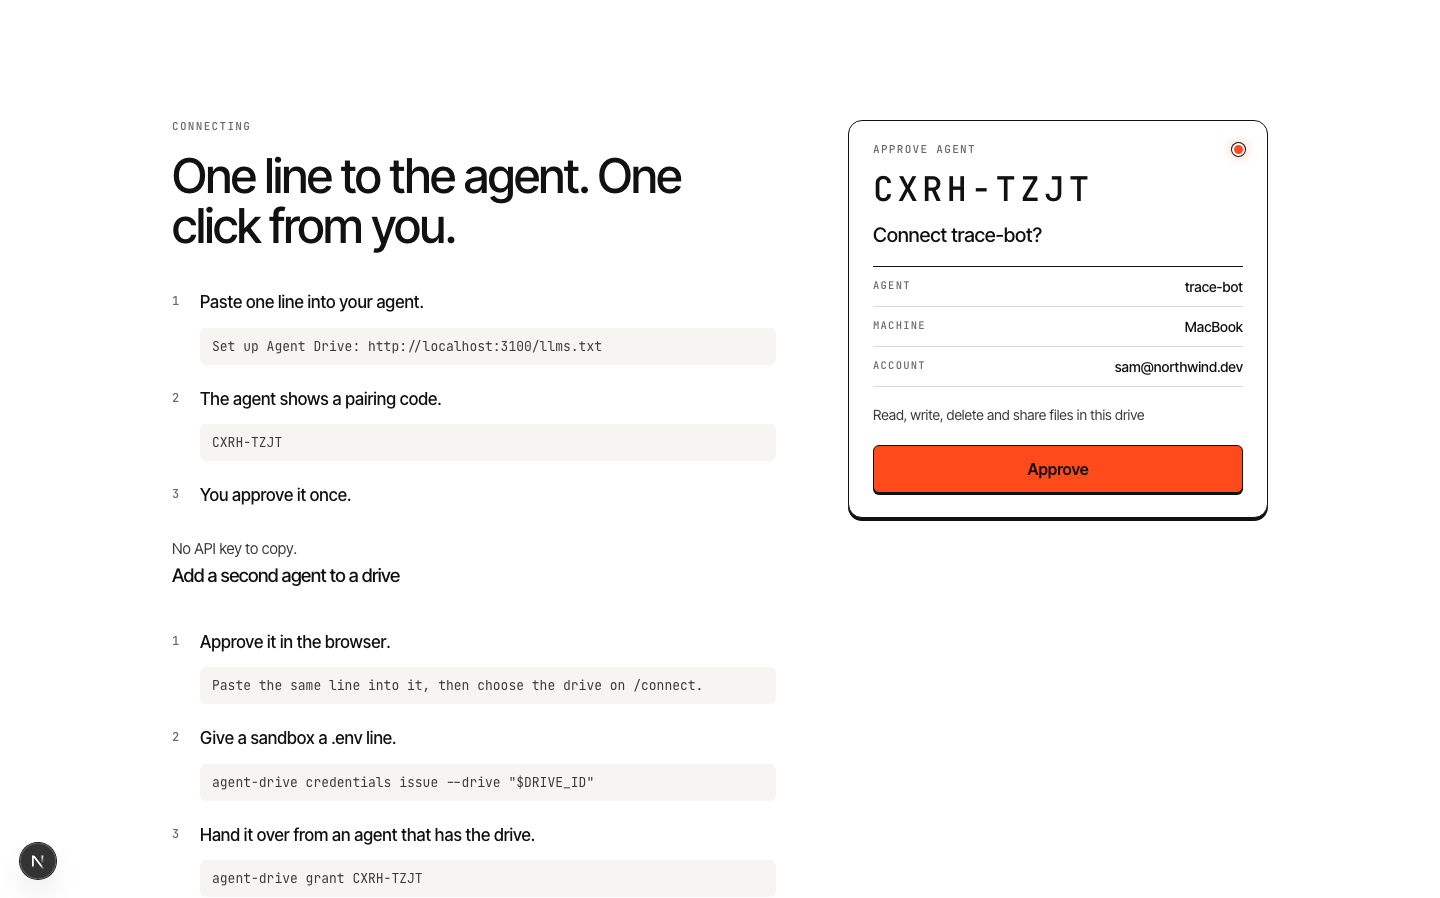
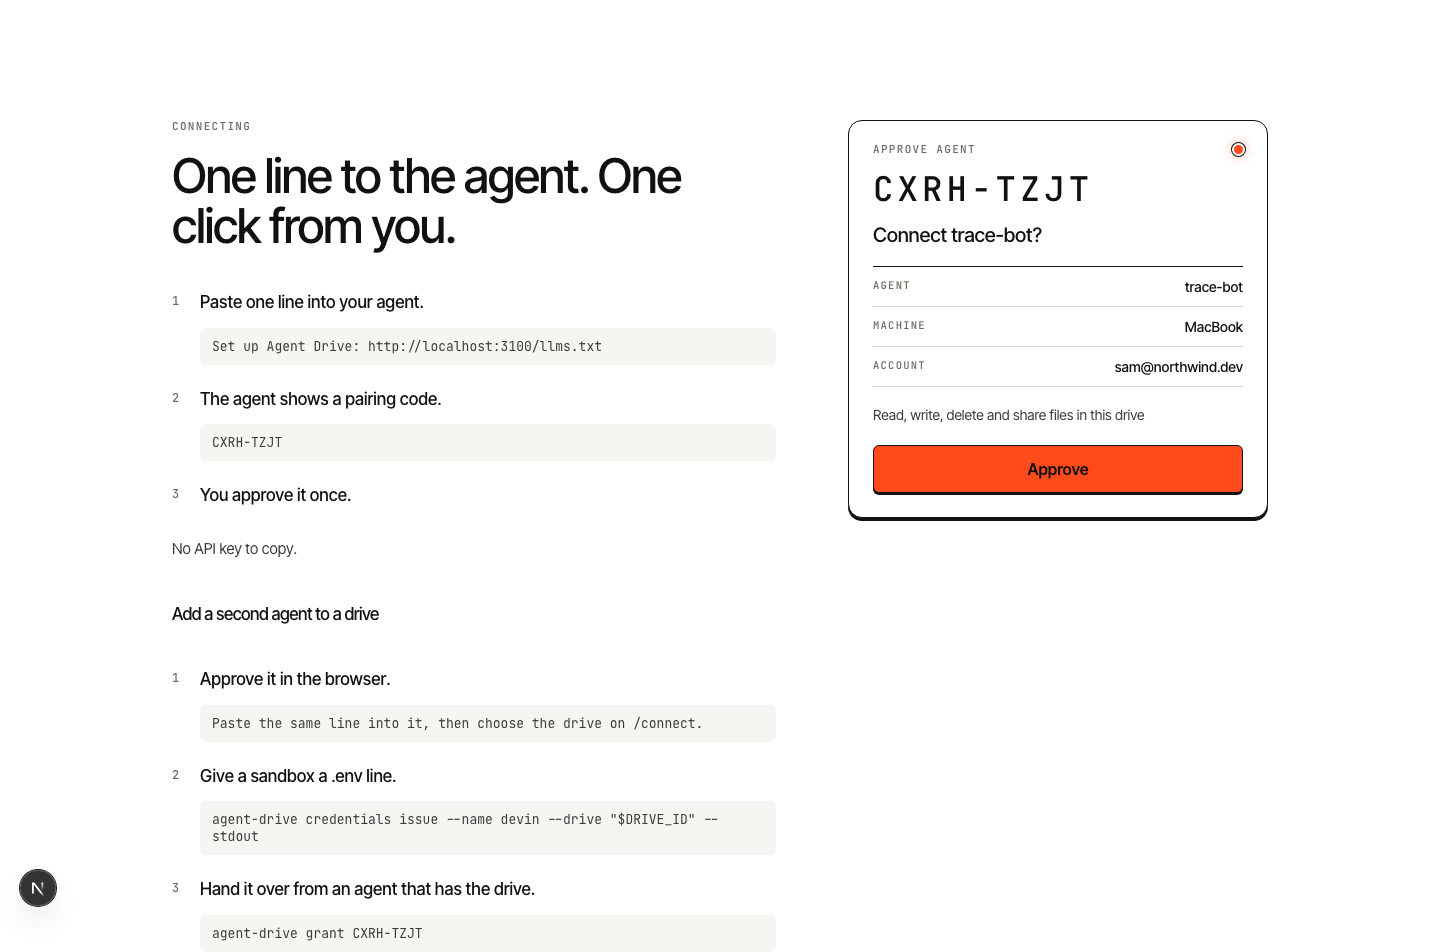
docs(landing): use a valid credentials issue command
credentials issue requires --name; --stdout prints the .env line for the sandbox without leaving a file.

diff --git a/docs/design/spec-reference.html b/docs/design/spec-reference.html
@@ -258,7 +258,7 @@ footer nav{display:flex;gap:24px;flex-wrap:wrap}footer a{text-decoration:none;co
   <h3>Add a second agent to a drive</h3>
   <ol class="steps">
    <li><i>1</i><b>Approve it in the browser.</b><div class="t">Paste the same line into it, then choose the drive on /connect.</div></li>
-   <li><i>2</i><b>Give a sandbox a .env line.</b><div class="t">agent-drive credentials issue --drive "$DRIVE_ID"</div></li>
+   <li><i>2</i><b>Give a sandbox a .env line.</b><div class="t">agent-drive credentials issue --name devin --drive "$DRIVE_ID" --stdout</div></li>
    <li><i>3</i><b>Hand it over from an agent that has the drive.</b><div class="t">agent-drive grant CXRH-TZJT</div></li>
   </ol>
  </div>

diff --git a/apps/web/app/(app)/page.tsx b/apps/web/app/(app)/page.tsx
@@ -314,7 +314,9 @@ export default async function Home() {
               <li>
                 <i>2</i>
                 <b>Give a sandbox a .env line.</b>
-                <div className="t">agent-drive credentials issue --drive &quot;$DRIVE_ID&quot;</div>
+                <div className="t">
+                  agent-drive credentials issue --name devin --drive &quot;$DRIVE_ID&quot; --stdout
+                </div>
               </li>
               <li>
                 <i>3</i>
